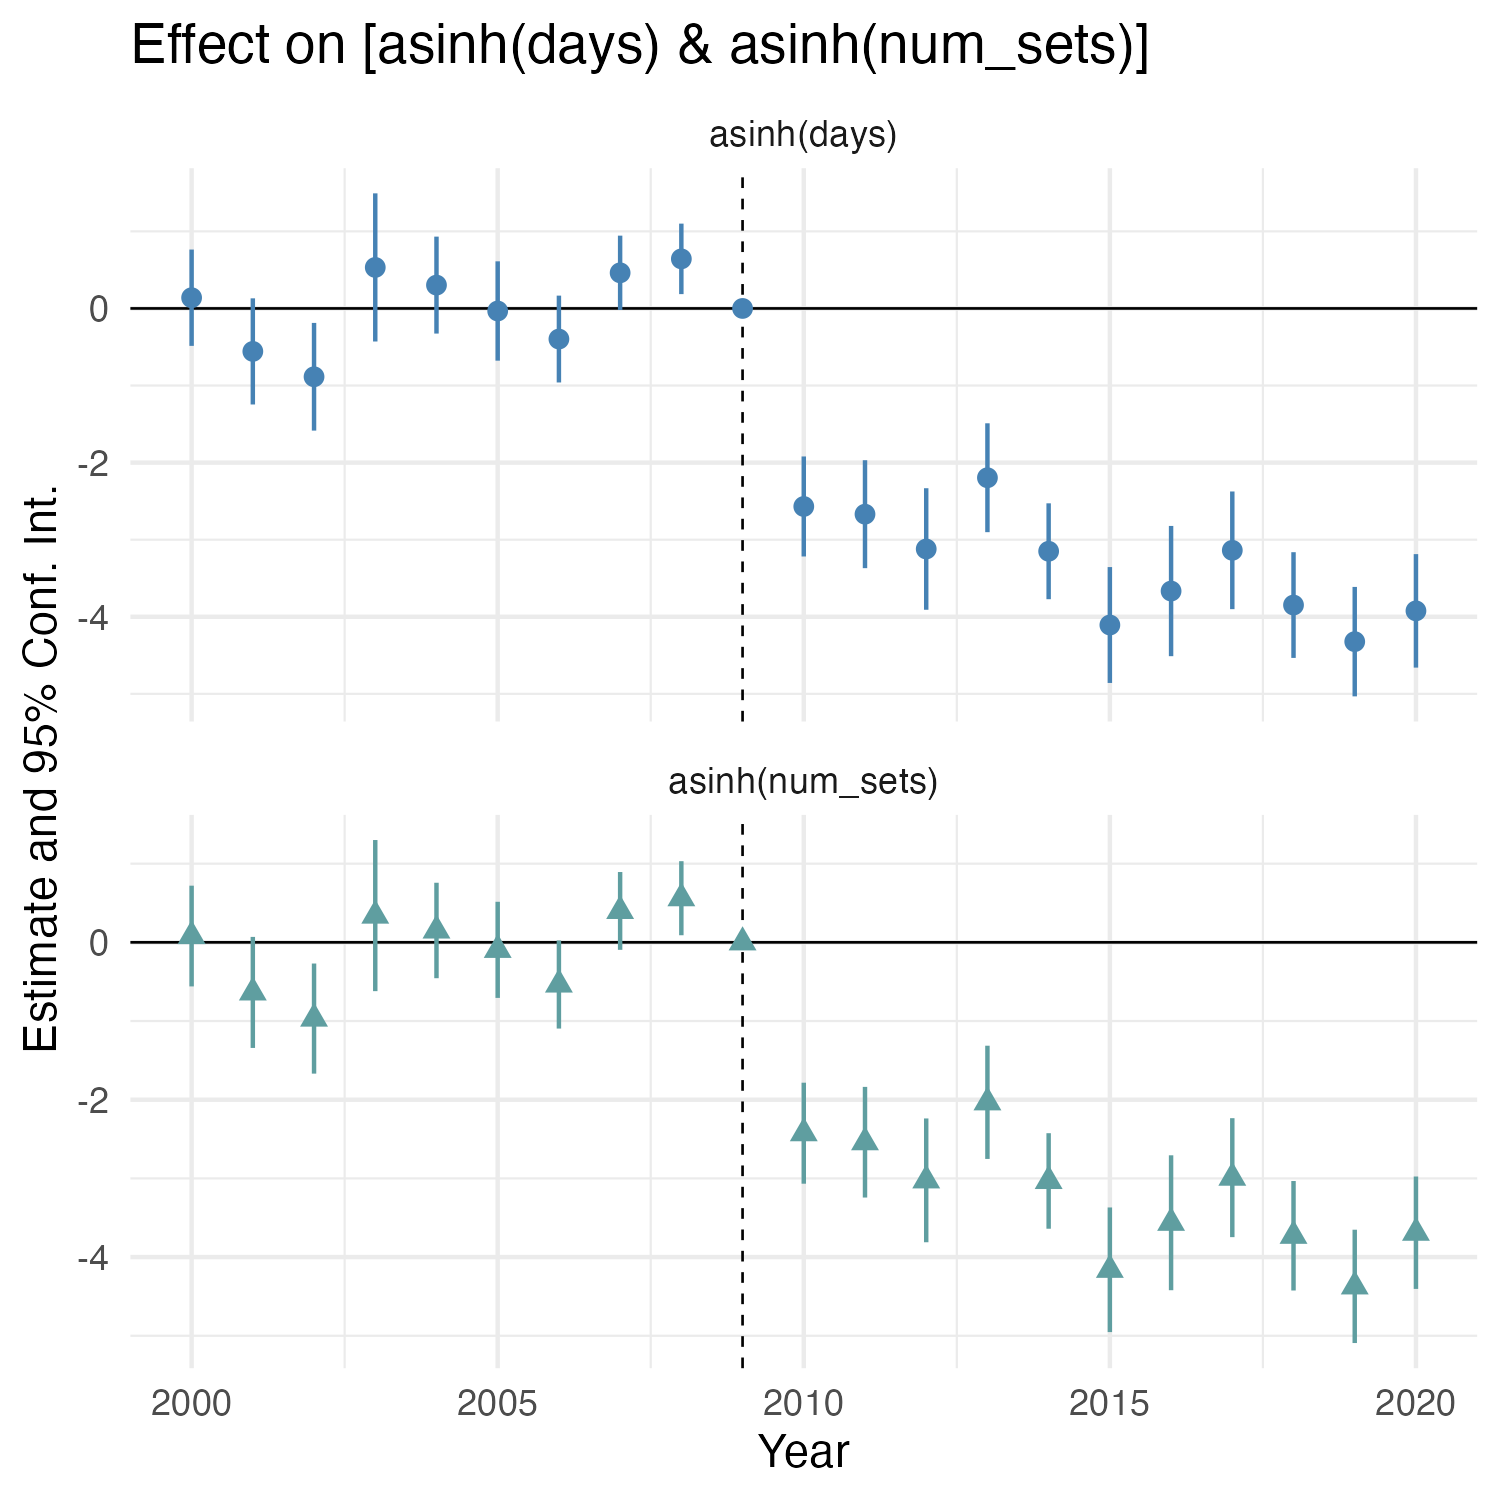
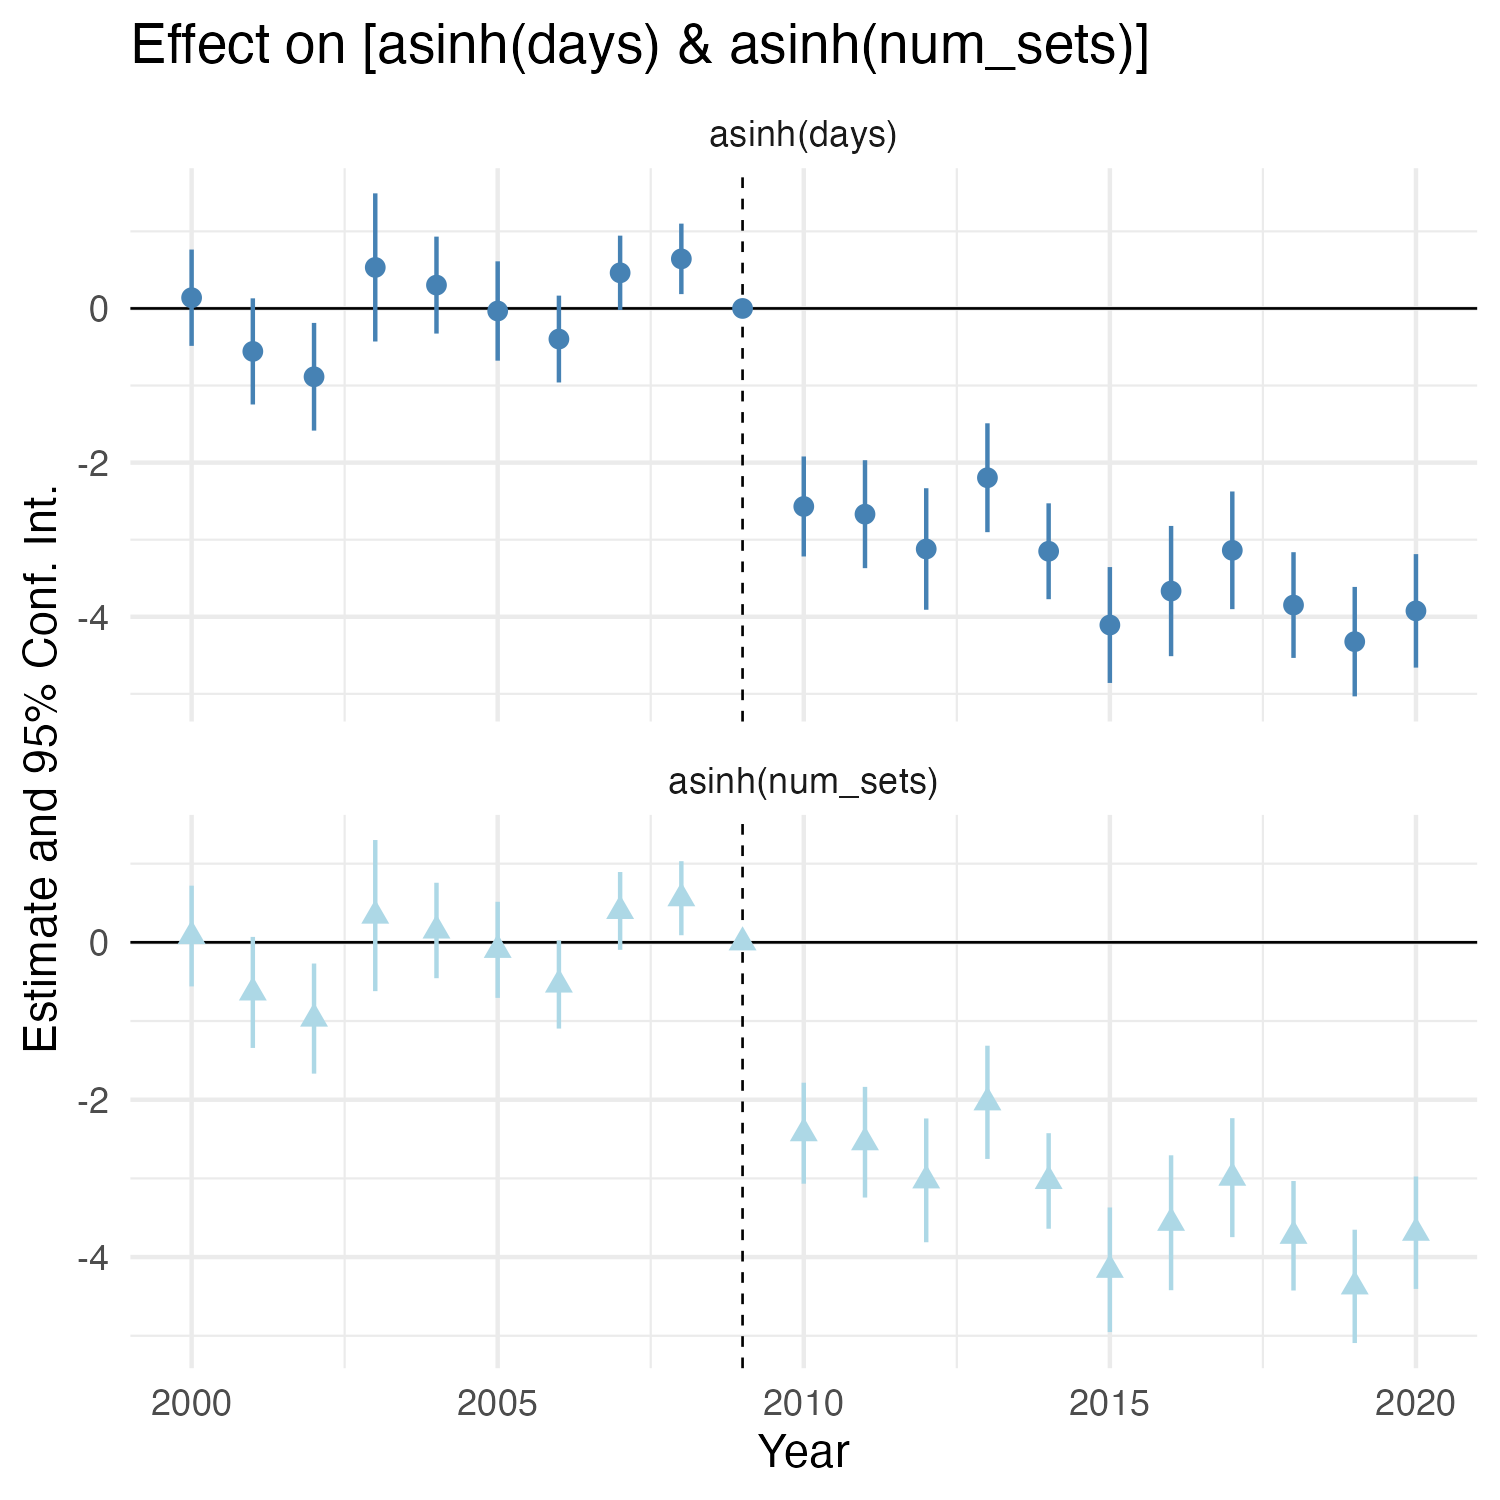
Updated ES colors for tuna purse seines

diff --git a/content/tab/reg_ihs.tex b/content/tab/reg_ihs.tex
@@ -7,14 +7,14 @@
 \addlinespace[0.5em]
 \multicolumn{3}{l}{\textit{A) Self}}\\
 \midrule \hspace{1em}Post & -2.882*** & -2.640***\\
-\hspace{1em} & (0.201) & (0.176)\\
+\hspace{1em} & (0.204) & (0.178)\\
 \hspace{1em}Num.Obs. & 1643 & 1643\\
 \hspace{1em}R2 & 0.709 & 0.665\\
 \hspace{1em}R2 Adj. & 0.702 & 0.657\\
 \addlinespace[0.5em]
 \multicolumn{3}{l}{\textit{B) Cont}}\\
 \midrule \hspace{1em}Post x Treated & -3.401*** & -3.207***\\
-\hspace{1em} & (0.236) & (0.214)\\
+\hspace{1em} & (0.240) & (0.218)\\
 \hspace{1em}Num.Obs. & 5478 & 5478\\
 \hspace{1em}R2 & 0.579 & 0.551\\
 \hspace{1em}R2 Adj. & 0.563 & 0.533\\
